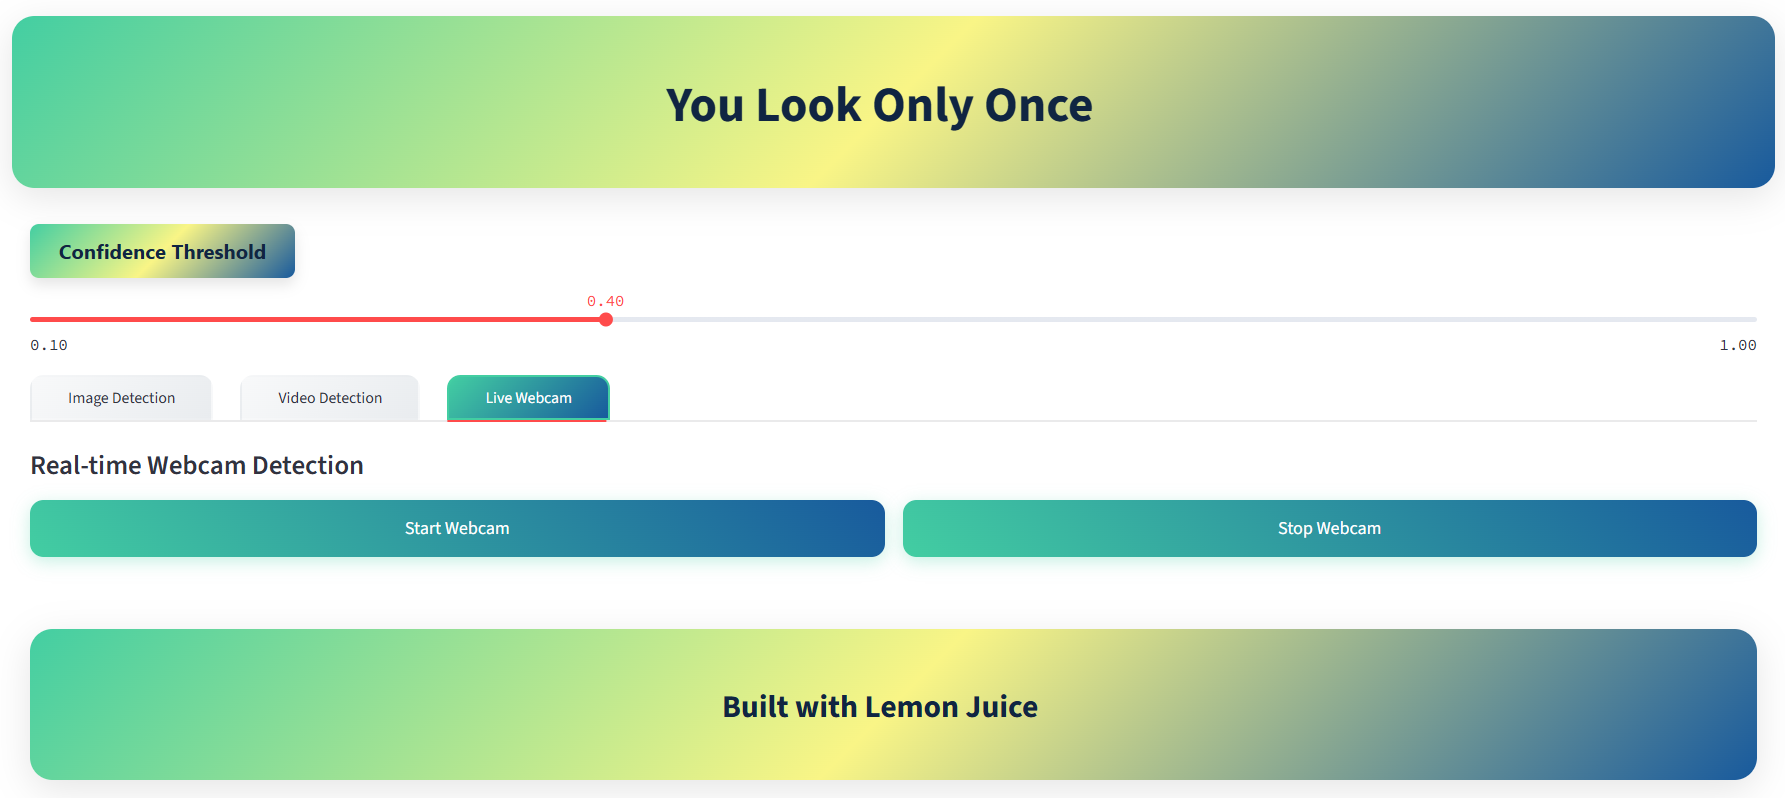
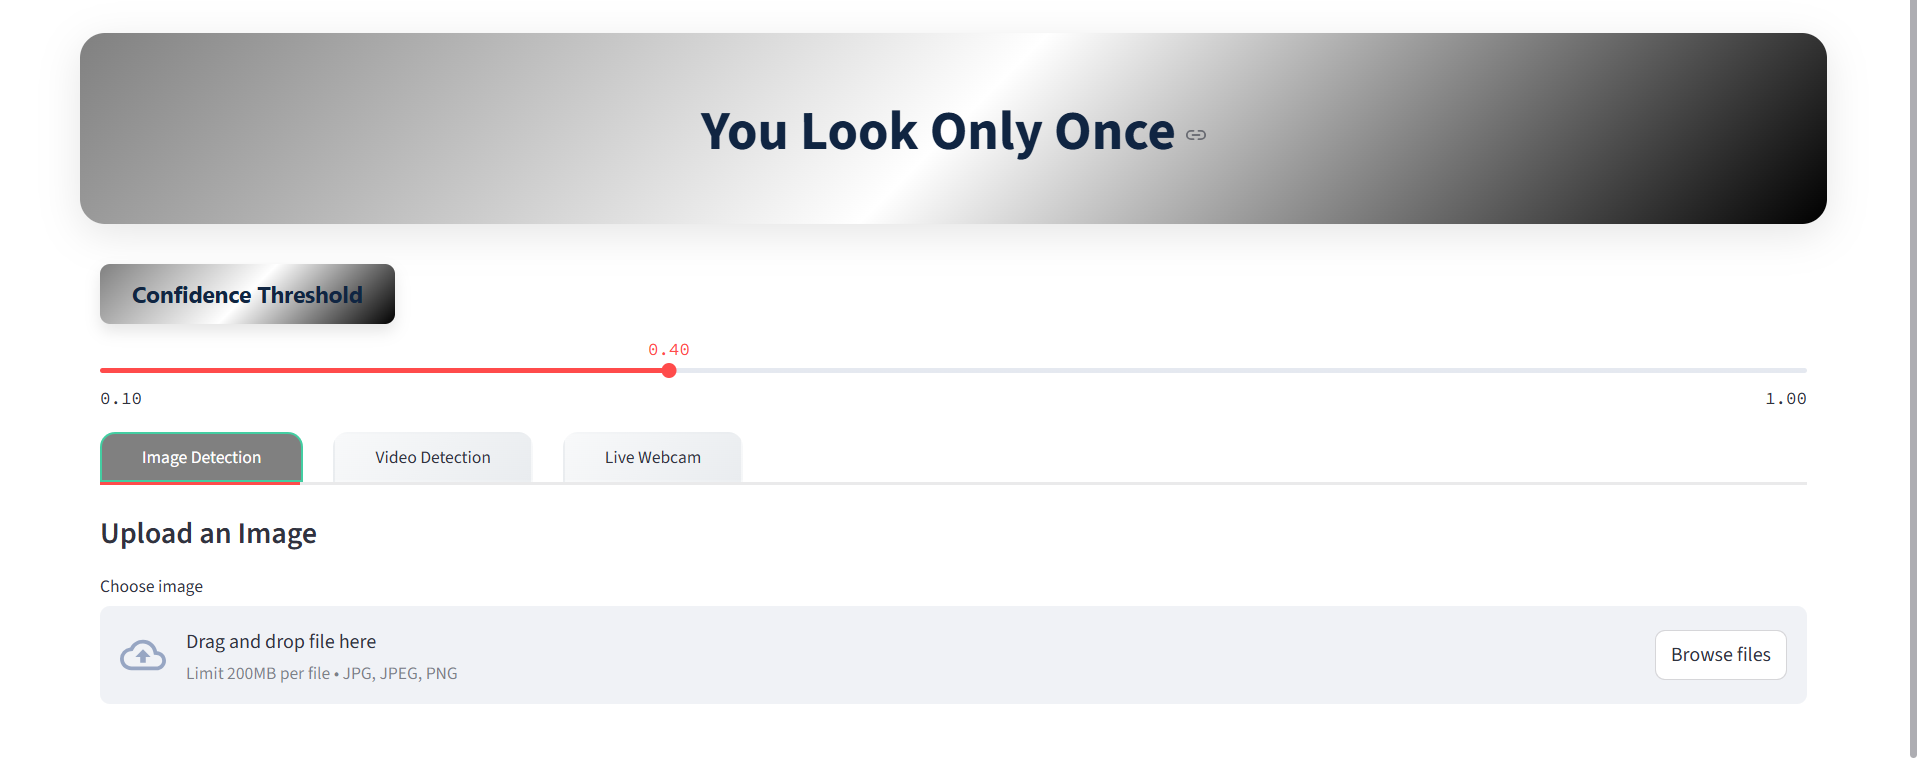
modified readme

diff --git a/app.py b/app.py
@@ -25,14 +25,14 @@ st.markdown("""
     .main-header {
         text-align: center;
         padding: 2rem 0;
-        background: linear-gradient(135deg, #43cea2 0%, #f9f586 50%, #185a9d 100%);
+        background: linear-gradient(135deg, #808080 0%, #ffffff 50%, #000000 100%);
         color: #102542;
         margin: -1rem -1rem 2rem -1rem;
         border-radius: 20px;
         box-shadow: 0 8px 32px rgba(0,0,0,0.1);
     }
     .confidence-section {
-        background: linear-gradient(135deg, #e3ffe7, #d9e7ff);
+        background: linear-gradient(135deg, #ffffff, #000000);
         padding: 1.5rem;
         border-radius: 12px;
         margin-bottom: 1.5rem;
@@ -44,7 +44,7 @@ st.markdown("""
         color: #102542;
     }
     .stButton>button {
-        background: linear-gradient(45deg, #43cea2, #185a9d);
+        background: linear-gradient(45deg, #808080, #185a9d);
         color: white;
         border: none;
         padding: 0.8rem 1.5rem;
@@ -82,7 +82,7 @@ st.markdown("""
         box-shadow: 0 4px 12px rgba(0,0,0,0.1);
     }
     .stTabs [data-baseweb="tab"][aria-selected="true"] {
-        background: linear-gradient(135deg, #43cea2, #185a9d);
+        background: linear-gradient(135deg, #808080);
         color: white;
         border-color: #43cea2;
     }
@@ -183,7 +183,7 @@ st.markdown("""
             margin-bottom: 1rem;
         }
         .conf-box {
-            background: linear-gradient(135deg, #43cea2 0%, #f9f586 50%, #185a9d 100%);
+            background: linear-gradient(135deg, #808080 0%, #ffffff 50%, #000000 100%);
             padding: 0.6rem 1.6rem;
             border-radius: 8px;
             box-shadow: 0 6px 12px rgba(0, 0, 0, 0.1);

diff --git a/README.md b/README.md
@@ -1,4 +1,4 @@
-# Real-Time Object Detection with YOLOv8 
+# Real-Time Object Detection  
 # (Webcam, Image & Video)
 
 ![Static Badge](https://img.shields.io/badge/Built%20with-Lemon%20Juice-orange?logoColor=yell)
@@ -25,8 +25,8 @@ This project lets you detect objects in:
 ### 1. Clone the Repository
 
 ```bash
-git clone https://github.com/suganthangnanavelan/Yolo-Object-Detection.git
-cd Yolo-Object-Detection
+git https://github.com/neerajkumarsi20/Object-Detector.git
+cd Object-Detector
 ```
 
 ### 2. Setup a Virtual Environment
